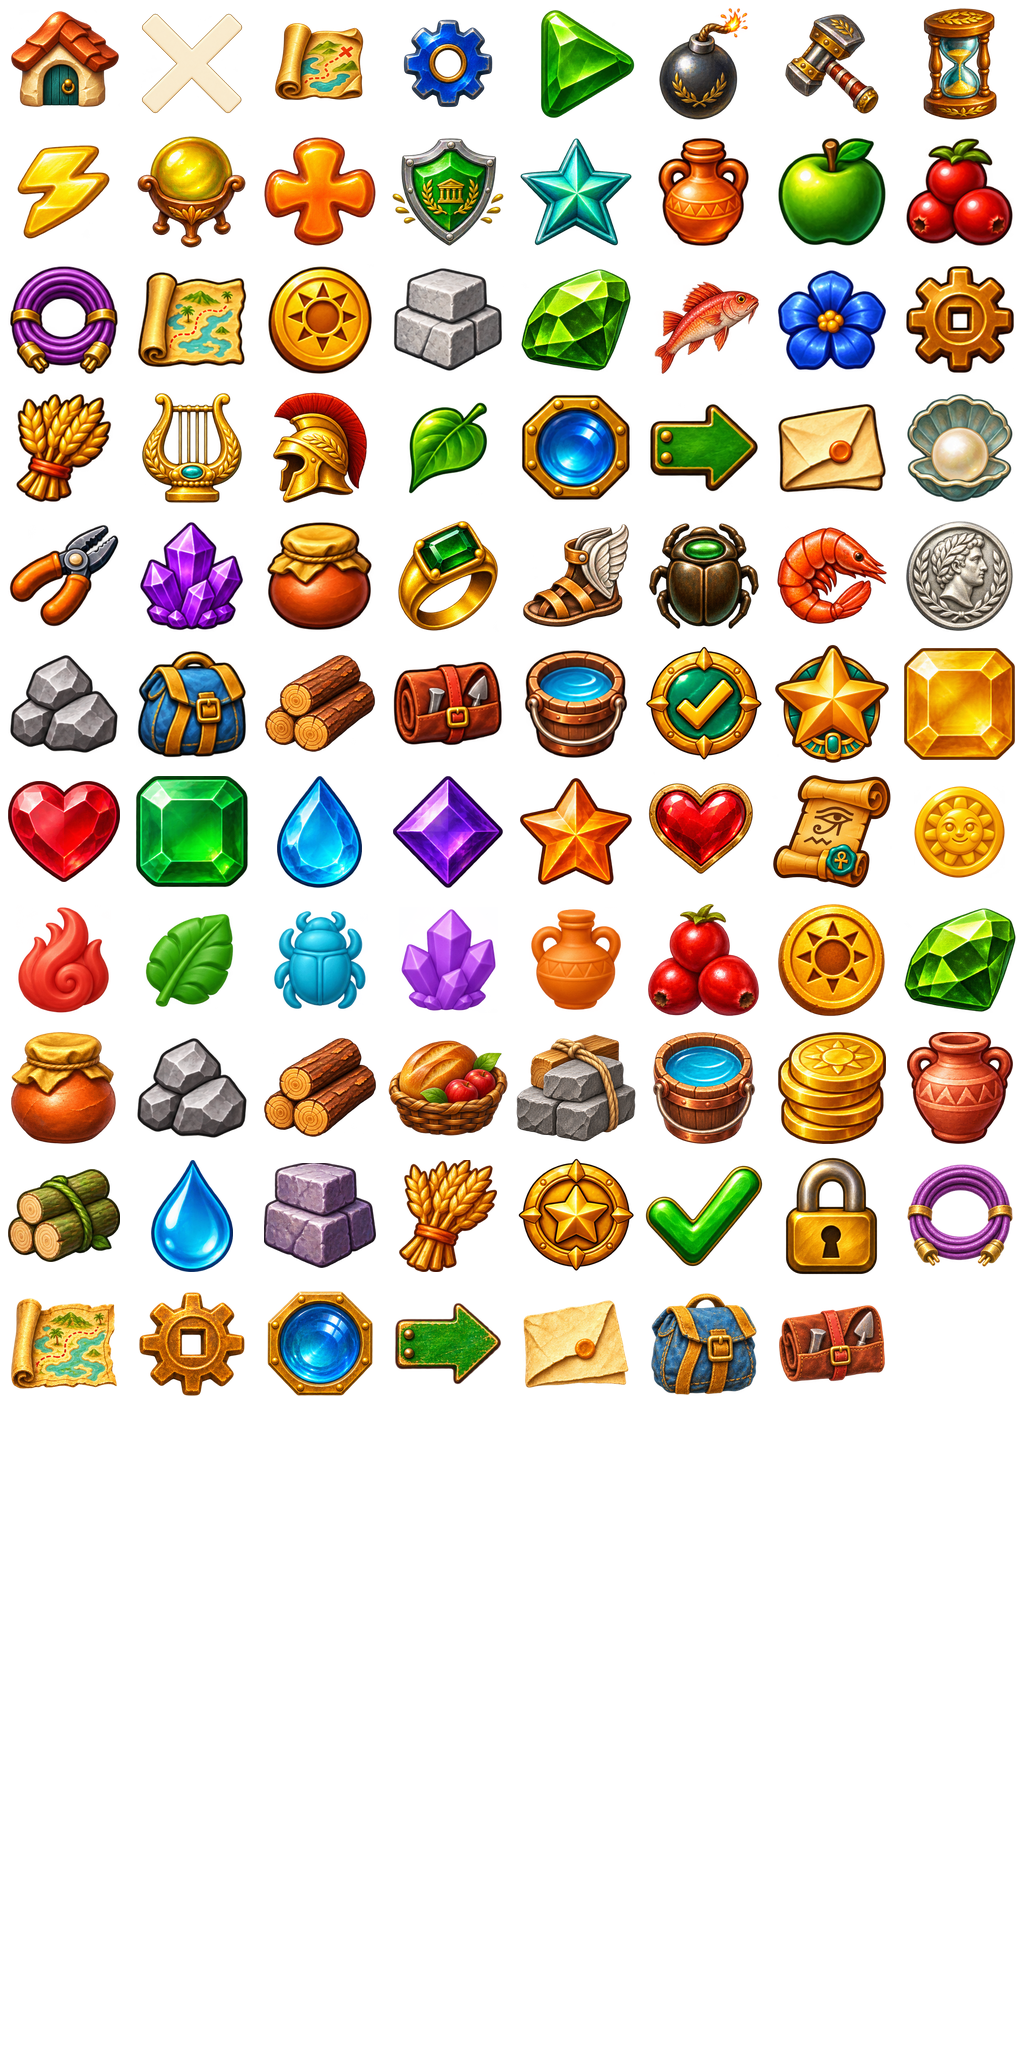
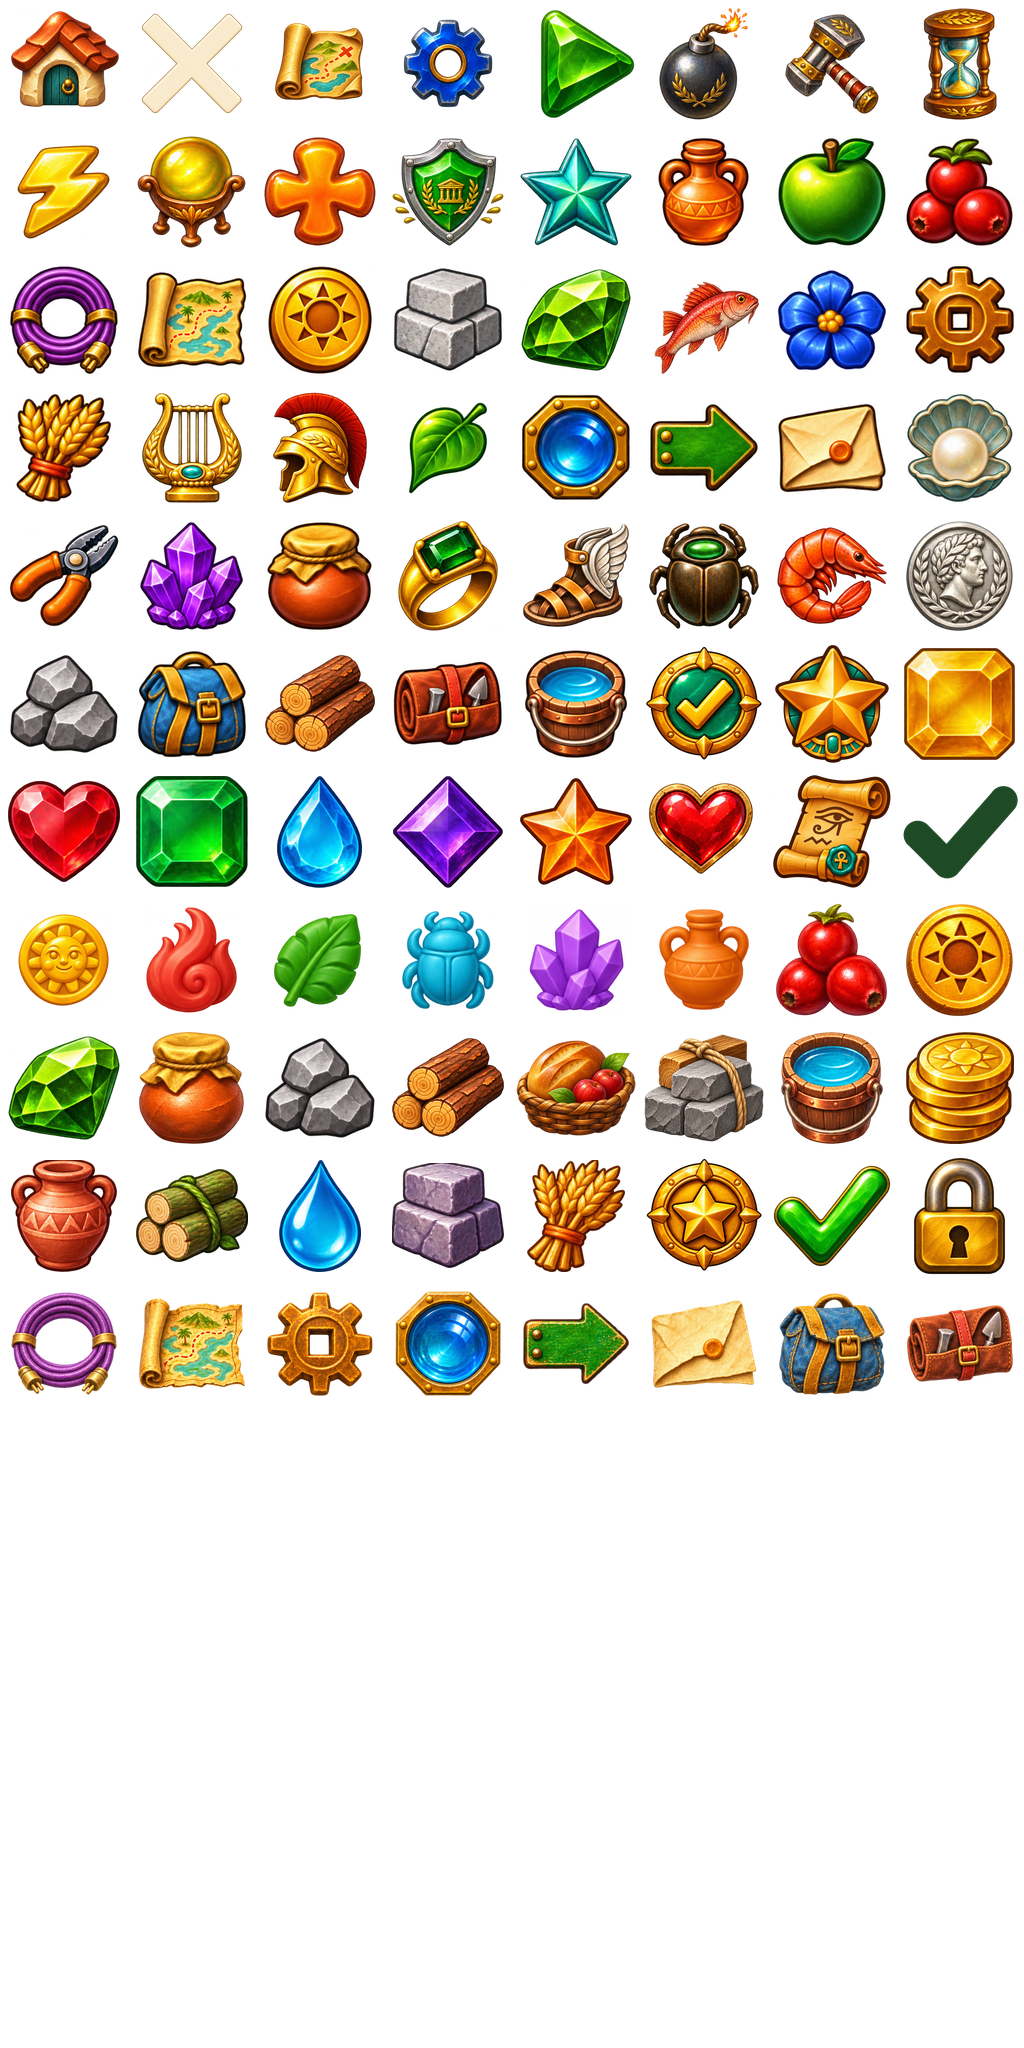
Finish the town's project tracker
The tracker's glass is only as wide as its names. A built project keeps its
name at full strength and shows a green coin in the gold coins' rim with a
dark green check, rendered by tools/quest_check.py and packed with the HUD
frames. Area markers the tracker would cover wait until the map pans them
clear.

Changed region(s): [[0.0, 0.375, 1.0, 0.6875]]

diff --git a/tools/quest_check.py b/tools/quest_check.py
@@ -1,0 +1,73 @@
+#!/usr/bin/env python3
+"""Render the dark green check that marks a finished quest on the town tracker.
+
+One 128 px sprite, drawn at 8x and reduced for clean edges: a dark green
+check with round caps and a round joint in the green coin's dark rim colour
+(as the numbers use the gold coin's brown), its outline centred in the cell. It is
+written into both portrait games' registered HUD art; repack the atlases
+with `python3 tools/match3_atlas.py` afterwards.
+
+    python3 tools/quest_check.py           # write the sprite
+    python3 tools/quest_check.py --check   # compare with the registered files
+"""
+import io
+import sys
+from pathlib import Path
+
+from PIL import Image, ImageDraw
+
+ROOT = Path(__file__).resolve().parent.parent
+TARGETS = [ROOT / f'games/{game}/art/registered/expedition-hud/quest-check.png'
+           for game in ('relic-rush', 'christmas-market')]
+CELL, SCALE = 128, 8
+INK = (31, 74, 38, 255)          # #1F4A26, the done coin's rim
+POINTS = [(.17, .53), (.40, .76), (.84, .26)]
+STROKE = .22                     # of the cell
+
+
+def stroke(draw, points, width, fill):
+    """A polyline with round caps and joints."""
+    for a, b in zip(points, points[1:]):
+        draw.line([a, b], fill=fill, width=round(width))
+    for x, y in points:
+        r = width / 2
+        draw.ellipse([x - r, y - r, x + r, y + r], fill=fill)
+
+
+def render():
+    side = CELL * SCALE
+    image = Image.new('RGBA', (side, side))
+    draw = ImageDraw.Draw(image)
+    points = [(x * side, y * side) for x, y in POINTS]
+    width = STROKE * side
+    stroke(draw, points, width, INK)
+    image = image.resize((CELL, CELL), Image.Resampling.LANCZOS)
+    # Centre the outline in the cell.
+    left, top, right, bottom = image.getchannel('A').getbbox()
+    dx, dy = round((CELL - (left + right)) / 2), round((CELL - (top + bottom)) / 2)
+    centred = Image.new('RGBA', (CELL, CELL))
+    centred.paste(image, (dx, dy))
+    return centred
+
+
+def png(image):
+    out = io.BytesIO()
+    image.save(out, 'PNG', optimize=True)
+    return out.getvalue()
+
+
+def main():
+    data = png(render())
+    if '--check' in sys.argv:
+        stale = [str(t.relative_to(ROOT)) for t in TARGETS if not t.exists() or t.read_bytes() != data]
+        if stale:
+            sys.exit('quest check is stale: ' + ', '.join(stale) + ' (run python3 tools/quest_check.py)')
+        print('quest check: 2 registered copies match')
+        return
+    for target in TARGETS:
+        target.write_bytes(data)
+        print('wrote', target.relative_to(ROOT))
+
+
+if __name__ == '__main__':
+    main()

diff --git a/tools/match3_atlas.py b/tools/match3_atlas.py
@@ -67,7 +67,7 @@ GROUPS = ['pieces', 'blockers', 'cells', 'hud', 'fx']
 HUD_NAMES = {'score', 'complete', 'moves', 'life', 'signboard', 'hud-panel', 'tool-tray', 'discovery-star', 'next-clue'}
 BOARD_GROUPS = ['pieces', 'blockers', 'cells', 'fx']   # the board skin
 HUD_GROUPS = ['hud']                                   # the board HUD
-RELIC_HUD_ICONS = {'score', 'complete', 'life', 'discovery-star', 'next-clue', 'shop-built', 'shop-locked'}
+RELIC_HUD_ICONS = {'score', 'complete', 'life', 'discovery-star', 'next-clue', 'shop-built', 'shop-locked', 'quest-check'}
 
 
 def group_of(name):
@@ -78,7 +78,7 @@ def group_of(name):
         return 'blockers'
     if name.startswith('square-'):
         return 'cells'
-    if name in HUD_NAMES or name.startswith(('pause-', 'board-pause-', 'shop-')):
+    if name in HUD_NAMES or name.startswith(('pause-', 'board-pause-', 'shop-', 'quest-')):
         return 'hud'
     return 'pieces'
 

diff --git a/games/christmas-market/docs/asset-catalogue.md b/games/christmas-market/docs/asset-catalogue.md
@@ -38,8 +38,14 @@ The town bar reuses the round enamel Build and Pause buttons with the
 [painted jade Play sprite](../../../art/match3-buttons/README.md#town-play)
 centred between them; Build and Pause each centre in the space on their side.
 The quest tracker at the upper left sits on the skin's `quest_tracker` border
-(dark glass) with `quest_number` panels (gold coins with the row's number) and the board
-goals' `done_tick` once a project is built. The Build rim uses the board’s existing blue particles
+(dark glass), only as wide as its names. Each row has a `quest_number` panel
+(a gold coin with the row's number in brown); a built project keeps its name
+at full strength and shows `quest_done`: a green coin in the same rim
+carrying `quest-check`, a dark green check rendered by
+`python3 tools/quest_check.py` into `art/registered/expedition-hud/quest-check.png`
+and packed with the HUD frames. An area marker the tracker would cover is not
+drawn until the map pans it clear.
+The Build rim uses the board’s existing blue particles
 when an eligible project is affordable. The shop lists the current
 phase's building sprites, then the decorations. It draws the existing HUD frames
 `shop-locked` and `shop-built` large over a locked or built building's sprite;

diff --git a/tools/README.md b/tools/README.md
@@ -65,6 +65,7 @@ are the guides.
 | `pack_match_specials.py` | Repack the authored optional match specials for both games | `python3 tools/pack_match_specials.py` |
 | `town_play_art.py` | Registers the four painted states of the shared town Play button | `python3 tools/town_play_art.py`; use `--check` to validate the atlas |
 | `match3_buttons.py` | Centers each campaign action icon in its 128 px button cell using the silhouette's pixel opacity | `python3 tools/match3_buttons.py`, then `python3 tools/match3_atlas.py` to repack |
+| `quest_check.py` | Renders the town quest tracker's dark green check into both portrait games' registered HUD art | `python3 tools/quest_check.py` (`--check` compares), then `python3 tools/match3_atlas.py` to repack |
 | `epoch_medals.py` | Registers the authored phase medallions for the two town choosers | `python3 tools/epoch_medals.py` (`--check` in `make test-assets`) |
 | `board_tiles.py` | Reproduces the archived hex floor artwork | `--render-check` in `make test-assets` |
 | `board_grain.py` | Tileable grain texture for the board tiles | imported by `board_tiles.py` |

diff --git a/games/relic-rush/docs/asset-catalogue.md b/games/relic-rush/docs/asset-catalogue.md
@@ -41,8 +41,13 @@ phase's building sprites, then the decorations. It draws the existing HUD frames
 `shop-locked` and `shop-built` large over a locked or built building's sprite.
 Review with `shot epoch-projects-phone` and the phone shop capture.
 The quest tracker at the upper left sits on the skin's `quest_tracker` border
-(dark glass) with `quest_number` panels (gold coins with the row's number) and the board
-goals' `done_tick` once a project is built.
+(dark glass), only as wide as its names. Each row has a `quest_number` panel
+(a gold coin with the row's number in brown); a built project keeps its name
+at full strength and shows `quest_done`: a green coin in the same rim
+carrying `quest-check`, a dark green check rendered by
+`python3 tools/quest_check.py` into `art/registered/expedition-hud/quest-check.png`
+and packed with the HUD frames. An area marker the tracker would cover is not
+drawn until the map pans it clear.
 
 ## Construction backdrops
 
